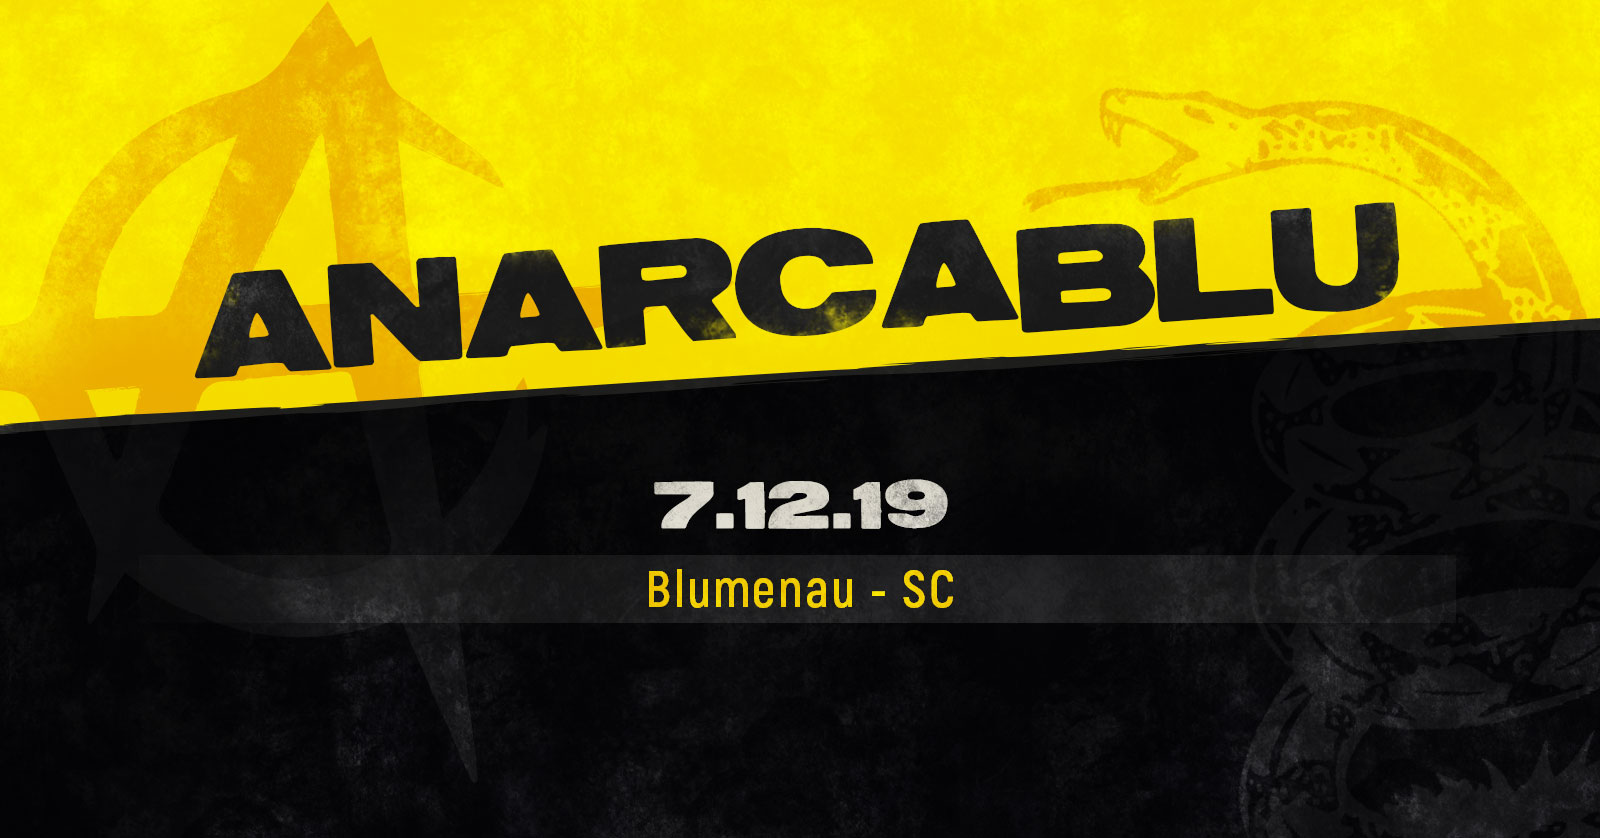
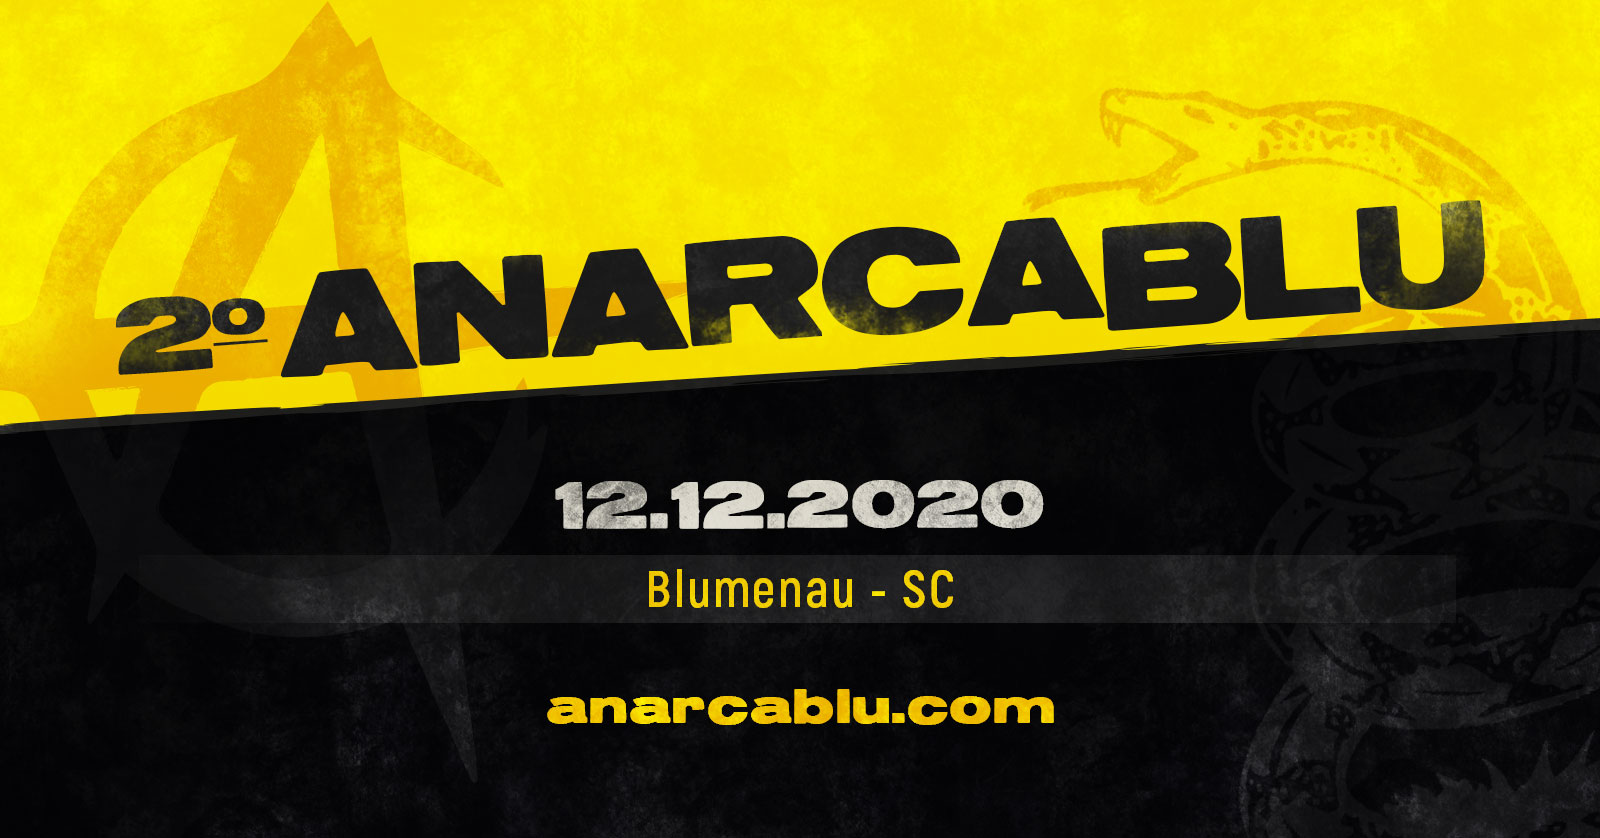
anarcablu 2020 - ajustar capa e ocultar palestras

Changed region(s): [[0.0625, 0.2172, 0.9375, 0.4654], [0.3438, 0.5585, 0.6562, 0.6516], [0.3438, 0.8067, 0.6562, 0.8687]]

diff --git a/index.html b/index.html
@@ -78,7 +78,7 @@
         <div class="container">
           <div class="row align-items-center">
             <div class="col-xl-12 col-xl-6 hero-right">
-              <img src="images/anarcablu_capa-sympla.jpg" alt="">
+              <img src="images/anarcablu-2020_site.jpg" alt="">
             </div>
           </div>
         </div>
@@ -175,9 +175,14 @@
               à venda no local.</p>
           </div>
           <div class="sec-title text-center">
-            <h4>07/12/2019</h4>
+            <h4>12/12/2020</h4>
           </div>
+          <div class="sec-title text-center">
+            <p> Em breve...</p>
+          </div>
+          <!-- 
           <div class="vertical-roadmap">
+            
             <div class="roadmap-item done">
               <div class="title">
                 <span>9h às 9h30</span>
@@ -291,6 +296,7 @@
               </div>
             </div>
           </div>
+        -->
         </div>
       </div>
       <!-- The Roadmap end-->
@@ -300,8 +306,9 @@
           <div class="team-member text-center">
             <div class="sec-title text-center">
               <h3>Palestrantes</h3>
+              <p>Esta é uma lista com palestrantes confirmados. Serão 08 palestrantes ao todo.</p>
             </div>
-            <div class="row">
+            <!-- <div class="row">
               <div class="col wow fadeInUp" data-wow-delay="0.1s">
                 <div class="team">
                   <img src="images/anarcablu_palestrantes_ECHESLER.png" alt="team">
@@ -310,8 +317,8 @@
                     instrutor de trânsito e especialista em máquinas pesadas (guindastes, terraplanagem, pavimentação,
                     concretagem e fundamentos)</span>
                 </div>
-              </div>
-              <div class="col wow fadeInUp" data-wow-delay="0.1s">
+              </div> -->
+              <!-- <div class="col wow fadeInUp" data-wow-delay="0.1s">
                 <div class="team">
                   <img src="images/anarcablu_palestrantes_VINICIUS.png" alt="team">
                   <h4>Vinicius Botti</h4>
@@ -320,17 +327,8 @@
                     explicativos das teorias propostas pela corrente econômica da Escola Austríaca e da corrente
                     filosófica Austro-Libertária.</span>
                 </div>
-              </div>
-              <div class="col wow fadeInUp" data-wow-delay="0.2s">
-                <div class="team">
-                  <img src="images/anarcablu_palestrantes_EDSON.png" alt="team">
-                  <h4>Edson Brusque</h4>
-                  <span><a href="https://www.youtube.com/edsonbrusque">Edson Brusque</a><br />
-                    Músico, engenheiro eletricista, mestre em dinheiro digital. Há 5 anos vem se dedicando ao estudo e
-                    divulgação de Bitcoin e assuntos relacionados ao público geral.</span>
-                </div>
-              </div>
-              <div class="col wow fadeInUp">
+              </div> -->
+              <!-- <div class="col wow fadeInUp">
                 <div class="team">
                   <img src="images/anarcablu_palestrantes_CYPRIANO.png" alt="team">
                   <h4>Cypriano</h4>
@@ -339,17 +337,26 @@
                     também pública, para desmistificar e explicar por que são os pais, e não o estado, quem tem o
                     direito e o dever de educar seus filhos.</span>
                 </div>
-              </div>
+              </div> -->
             </div>
             <div class="row">
-              <div class="col wow fadeInUp">
+              <!-- <div class="col wow fadeInUp">
                 <div class="team">
                   <img src="images/anarcablu_palestrantes_LEANDRO.png" alt="team">
                   <h4>Leandro Cerutti</h4>
                   <span>Mestre em administração, Leandro Cerutti é empresário e professor. Entusiasta do
                     empreendedorismo, capitalismo, voluntarismo e livre iniciativa.</span>
                 </div>
-              </div>
+              </div> -->
+              <div class="col wow fadeInUp" data-wow-delay="0.2s">
+                <div class="team">
+                  <img src="images/anarcablu_palestrantes_EDSON.png" alt="team">
+                  <h4>Edson Brusque</h4>
+                  <span><a href="https://www.youtube.com/edsonbrusque">Edson Brusque</a><br />
+                    Músico, engenheiro eletricista, mestre em dinheiro digital. Há 5 anos vem se dedicando ao estudo e
+                    divulgação de Bitcoin e assuntos relacionados ao público geral.</span>
+                </div>
+              </div>              
               <div class="col wow fadeInUp" data-wow-delay="0.3s">
                 <div class="team">
                   <img src="images/anarcablu_palestrantes_JULIO.png" alt="team">
@@ -371,7 +378,7 @@
                     à governança privada para o público lusófono.</span>
                 </div>
               </div>
-              <div class="col wow fadeInUp" data-wow-delay="0.1s">
+              <!-- <div class="col wow fadeInUp" data-wow-delay="0.1s">
                 <div class="team">
                   <img src="images/anarcablu_palestrantes_PETER.png" alt="team">
                   <h4>Peter Turguniev</h4>
@@ -381,7 +388,7 @@
                     libertarianismo são respondidas com vídeos didáticos e bem produzidos. Hoje o canal conta com 40 mil
                     inscritos e vários colaboradores que produzem cerca de 20 vídeos por semana.</span>
                 </div>
-              </div>
+              </div> -->
             </div>
           </div>
         </div>
@@ -493,14 +500,14 @@
                     target="_blank"><i class="fab fa-youtube"></i></a></li>
                 <li><a class="twitter" href="https://twitter.com/anarcablu" target="_blank"><i
                       class="fab fa-twitter"></i></a></li>
-                <li><a class="sympla" href="https://www.sympla.com.br/anarcablu__703667" target="_blank"><i><img
+                <li><a class="sympla" href="https://www.sympla.com.br/2-anarcablu__875458" target="_blank"><i><img
                         src="images/icon-app-comprador - Copy.png" alt=""></i></a></li>
                 <li><a class="gmail" href="mailto:anarcablu@gmail.com" target="_blank"><i
                       class="fas fa-envelope"></i></a></li>
               </ul>
             </div>
             <div class="copyrights">
-              <i class="fab fa-creative-commons"></i> 2019 Anarcablu Team.
+              <i class="fab fa-creative-commons"></i> 2020 Anarcablu Team.
             </div>
           </div>
         </div>
